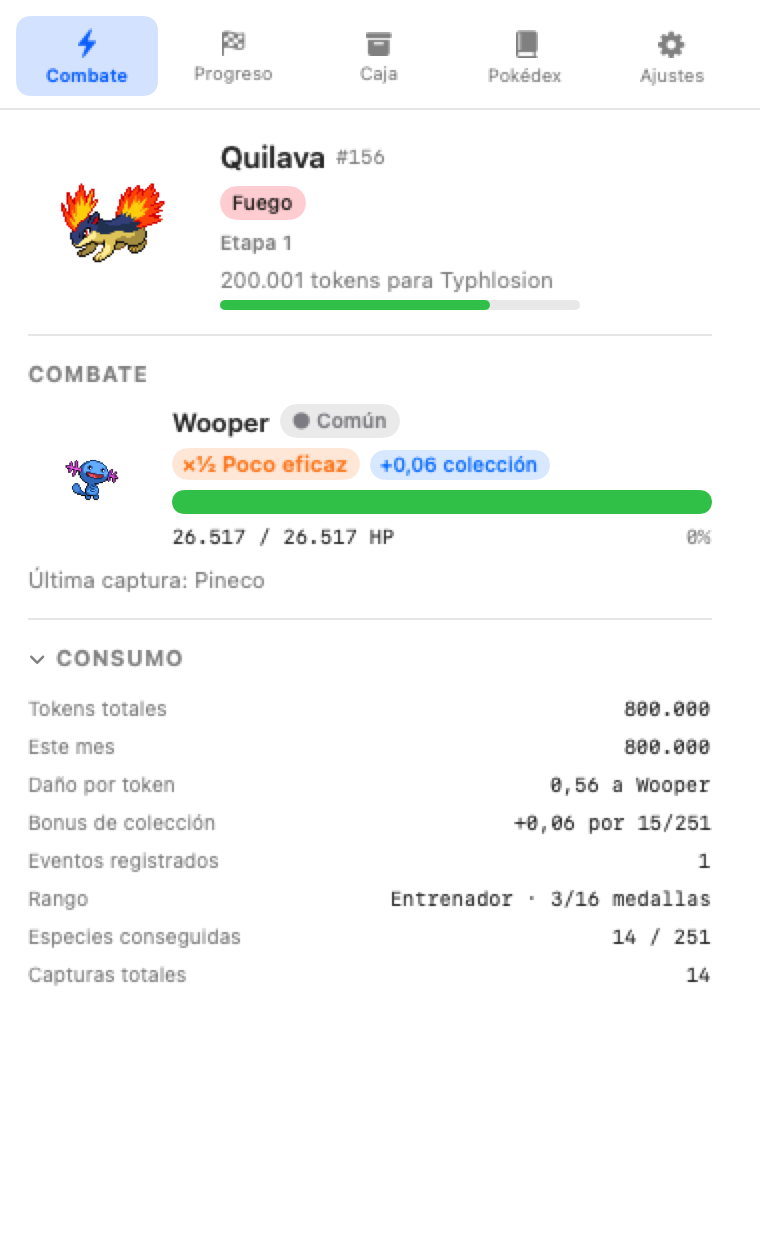
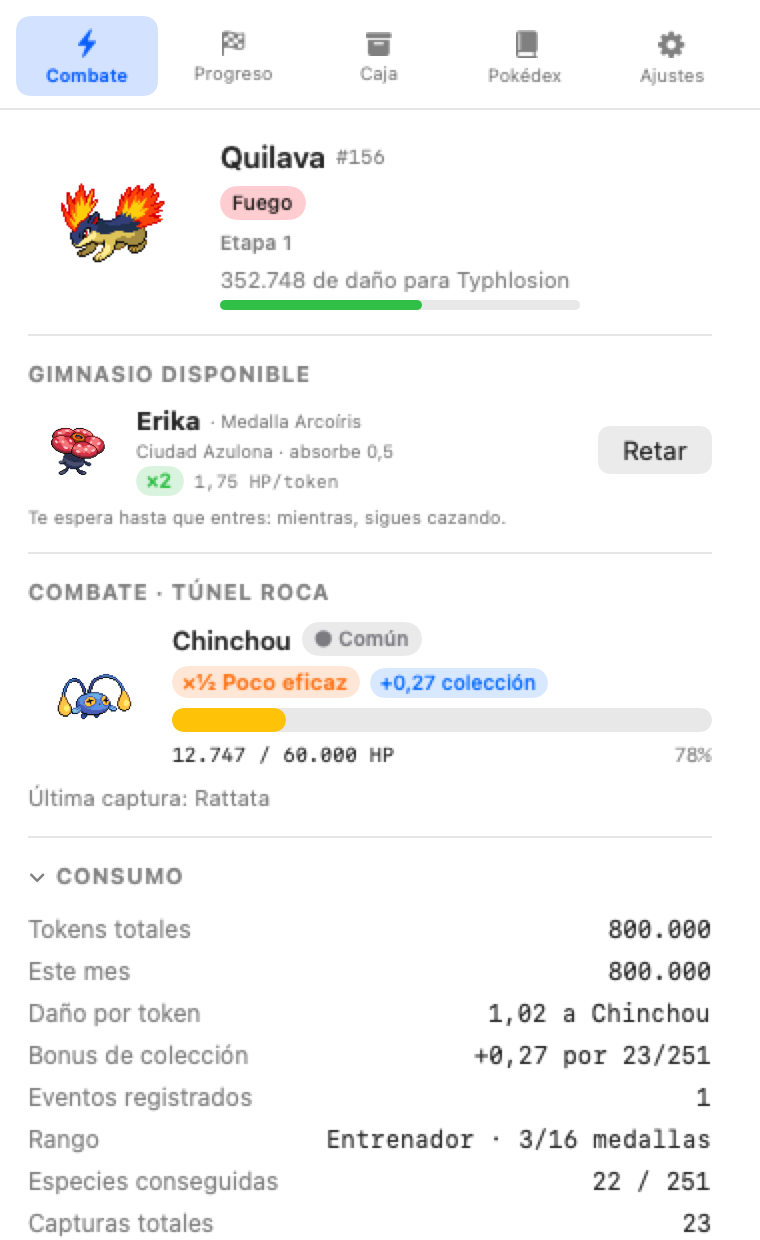
docs: auditar el README contra el código y arreglar el render de capturas
La documentación se quedó atrás en las últimas tandas. Lo que contradecía al
código:

- la tabla de tiers daba 60/28/10/2 % y un rango de HP por tier, cuando la
  rareza pasó a ser probabilidad (45/33/22) y la vida la pone la zona; además
  seguía pidiendo "> 200.000 tokens" para los raros, que es el gate por tokens
  que las medallas sustituyeron hace mucho;
- la evolución seguía contando "tokens ganados" en vez del daño hecho;
- los legendarios "repartían su 2 %", cuando su peso es cero;
- los hitos pedían "medallas extra (Ho-Oh, 10)", que no es ninguno de los que
  hay: son los tres pájaros con 8 y Celebi con 16;
- el variocolor seguía descrito como un hueco aparte de la caja;
- quedaba una frase partida por la mitad en el bullet de los GIF.

`Rarity.hpRange` ya no lo usaba nadie desde que la vida sale de la zona: los
jefes tienen la suya en sus JSON. Fuera.

El render de capturas llevaba dos semanas escribiendo cuatro PNG menos sin
decirlo: `debugWinLeague("johto")` era el id de la liga que abría la región 2 y
al invertir el orden pasó a ser la final, así que la región 2 quedaba cerrada,
`nextGym` devolvía nil y el bloque de gimnasio se saltaba entero. Ahora la liga
se busca por su recompensa, el bloque va antes del barco —que es cuando el
gimnasio siguiente es alcanzable— y se restaura la pestaña al salir.

Capturas regeneradas, y las seis que el render producía sin que nadie las
guardara entran al repo: las de zonas, ramas y barco se enseñan en su sección.

diff --git a/Sources/PokeTokenBar/UIRender.swift b/Sources/PokeTokenBar/UIRender.swift
@@ -93,9 +93,44 @@ enum UIRender {
         store.selectedTab = "progreso"
         write("popover-progreso", hosted(RootView(), size: popoverSize))
 
-        // El barco a Kanto: el Alto Mando ganado y la Pokédex a medias.
+        // --- Gimnasio: abrirlo de verdad, no simularlo
+        store.debugSetGymCounters(tokens: GameRules.gymTokenInterval, captures: 0)
+        store.debugSetEncounter(WildEncounter(speciesID: 19, isShiny: false, rarity: .common, maxHP: 10))
+        store.ingest(UsageEvent(id: "render-gym", inputTokens: 10, outputTokens: 0))
+        if let waiting = store.availableGym {
+            warm([waiting.signatureSpeciesID])
+            store.selectedTab = "combate"
+            write("popover-gimnasio-disponible", hosted(RootView(), size: popoverSize))
+            store.startGym(waiting.id)
+        }
+        if let gym = store.activeGym {
+            warm([gym.gym.signatureSpeciesID])
+            write("hud-gimnasio", hosted(HUDView(), size: compactHUD))
+            store.selectedTab = "combate"
+            write("popover-gimnasio", hosted(RootView(), size: popoverSize))
+            // Y ganarlo, para la celebración de medalla.
+            store.ingest(UsageEvent(id: "render-medalla", inputTokens: gym.battle.maxHP * 6, outputTokens: 0))
+            if store.lastMedal != nil {
+                write("hud-medalla", hosted(HUDView(), size: NSSize(width: 300, height: 120)))
+                write("popover-medalla", hosted(RootView(), size: popoverSize))
+            }
+        }
+        // La celebración dura 12 s y taparía todo lo que viene después, y el
+        // gimnasio deja la pestaña en Combate: las dos siguientes son de
+        // Progreso.
+        store.dismissMedalCelebration()
+        store.selectedTab = "progreso"
+
+        // El barco a la región 2: su Alto Mando ganado y la Pokédex a medias.
+        // La liga se busca por su recompensa y no por su id: cuando se invirtió
+        // el orden de juego, el id escrito a mano pasó a ser el de la liga
+        // final y este bloque dejó de enseñar el barco (y de paso se llevó por
+        // delante las cuatro capturas de gimnasio, que dependen de que la
+        // región 2 siga cerrada).
         store.debugDefeatGyms(upTo: 8)
-        store.debugWinLeague("johto")
+        if let ferry = store.leagueCatalog.all.first(where: { $0.reward.opensRegion != nil }) {
+            store.debugWinLeague(ferry.id)
+        }
         store.toggleSection("Rango")
         store.toggleSection("Legendarios")
         store.toggleSection("Zonas")
@@ -159,29 +194,6 @@ enum UIRender {
         store.selectedTab = "pokedex"
         write("popover-pokedex", hosted(RootView(), size: popoverSize))
         store.selectedTab = "combate"
-
-        // --- Gimnasio: abrirlo de verdad, no simularlo
-        store.debugSetGymCounters(tokens: GameRules.gymTokenInterval, captures: 0)
-        store.debugSetEncounter(WildEncounter(speciesID: 19, isShiny: false, rarity: .common, maxHP: 10))
-        store.ingest(UsageEvent(id: "render-gym", inputTokens: 10, outputTokens: 0))
-        if let waiting = store.availableGym {
-            warm([waiting.signatureSpeciesID])
-            store.selectedTab = "combate"
-            write("popover-gimnasio-disponible", hosted(RootView(), size: popoverSize))
-            store.startGym(waiting.id)
-        }
-        if let gym = store.activeGym {
-            warm([gym.gym.signatureSpeciesID])
-            write("hud-gimnasio", hosted(HUDView(), size: compactHUD))
-            store.selectedTab = "combate"
-            write("popover-gimnasio", hosted(RootView(), size: popoverSize))
-            // Y ganarlo, para la celebración de medalla.
-            store.ingest(UsageEvent(id: "render-medalla", inputTokens: gym.battle.maxHP * 6, outputTokens: 0))
-            if store.lastMedal != nil {
-                write("hud-medalla", hosted(HUDView(), size: NSSize(width: 300, height: 120)))
-                write("popover-medalla", hosted(RootView(), size: popoverSize))
-            }
-        }
 
         for name in written.sorted() { print(name) }
         return written.isEmpty ? 1 : 0

diff --git a/Sources/PokeTokenBarCore/Model/Rarity.swift b/Sources/PokeTokenBarCore/Model/Rarity.swift
@@ -21,17 +21,6 @@ public enum Rarity: String, Codable, CaseIterable, Sendable {
         }
     }
 
-    /// HP de los jefes de este tier. Los salvajes ya no lo usan: su vida sale
-    /// de la profundidad de la zona.
-    public var hpRange: ClosedRange<Int> {
-        switch self {
-        case .common: return 10_000...50_000
-        case .uncommon: return 75_000...200_000
-        case .rare: return 250_000...600_000
-        case .legendary: return 1_500_000...4_000_000
-        }
-    }
-
     /// Si aparece en libertad. Los legendarios no: son hitos con sitio y
     /// requisito, y dejarlos también en el sorteo los abarataría.
     public var spawnsInTheWild: Bool { self != .legendary }

diff --git a/README.md b/README.md
@@ -124,18 +124,26 @@ rival de turno, no con quién empezaste) y ofrecía los tres de Johto para empez
 en Kanto. Nunca duplica una línea: si ya tienes ese Pokémon, no te dan otro.
 
 
-| Tier | Prob. | HP | Requiere | Ejemplos |
-|---|---|---|---|---|
-| Común | 60 % | 10.000 – 50.000 | — | Rattata, Sentret |
-| Poco común | 28 % | 75.000 – 200.000 | — | Gastly, Scyther |
-| Raro | 10 % | 250.000 – 600.000 | > 200.000 tokens | Dratini, Larvitar, iniciales |
-| Legendario | 2 % | 1.500.000 – 4.000.000 | > 2.000.000 tokens | Mewtwo, Lugia |
+| Tier | Peso dentro de su zona | Requiere | Ejemplos |
+|---|---|---|---|
+| Común | 45 % | — | Rattata, Sentret |
+| Poco común | 33 % | — | Gastly, Scyther |
+| Raro | 22 % | 2 medallas (rango Entrenador) | Dratini, Larvitar, iniciales |
+| Legendario | — | no aparece en libertad | Mewtwo, Lugia |
 
+- **La rareza es probabilidad, no vida.** Cuánto aguanta un salvaje lo dice la
+  zona en la que estás (§13), no su tier: dentro de una zona, un raro sale menos
+  pero cuesta lo mismo que un común.
+- Un tier que la zona no tiene reparte su peso entre los que sí, en proporción:
+  en una zona sin raros, el 22 % se va a comunes y poco comunes.
 - Variocolor (shiny): 1 % en cualquier aparición, y se conserva al capturar.
-- Un tier bloqueado no "reintenta": su peso se reparte entre los disponibles.
-### Evolución: los tokens dan derecho, el combate decide la forma
+### Evolución: el daño da derecho, el combate decide la forma
 
-Cada Pokémon evoluciona con **sus** tokens (200.000 y 1.000.000 ganados
+<p align="center">
+  <img src="docs/screenshots/popover-ramas.png" width="260" alt="Ficha de un Eevee con sus cinco ramas y la condición de cada una">
+</p>
+
+Cada Pokémon evoluciona con **su** daño (200.001 y 1.000.001 de HP quitados
 estando equipado), y la evolución es un **hecho que se registra en el
 ejemplar**, no algo que se recalcule a partir de los tokens. Eso importa para
 las cinco líneas que bifurcan: antes la rama la fijaba una semilla desde la
@@ -547,6 +555,10 @@ de dejar el avance en silencio.
 
 ### El barco entre regiones
 
+<p align="center">
+  <img src="docs/screenshots/popover-barco.png" width="260" alt="El barco: Alto Mando ganado y el requisito de Pokédex a medias">
+</p>
+
 El billete tiene **dos mitades**:
 
 1. ganar el **Alto Mando de Kanto**, y
@@ -555,7 +567,8 @@ El billete tiene **dos mitades**:
 El requisito de Pokédex es lo que hace que la región 1 haya que jugarla y no
 solo atravesarla: sin él se ganaba el Alto Mando con la mitad de la región sin
 ver. Son las **66 que se encuentran antes de Johto** más criar cuatro, unos
-800.000 tokens, y con la zona enfocada es trabajo dirigido y no lotería.
+800.000 de daño, y como siempre estás en una zona concreta es trabajo dirigido
+y no lotería.
 
 Es el equivalente al **Dock Pass** de PokéClicker, que allí se compra con
 moneda: aquí no hay monedas, así que el peaje es la Pokédex.
@@ -609,7 +622,7 @@ seguidas, y es ese número el que mueve todo lo demás.
 | 0 | Kanto | rutas del sur; tier común y poco común |
 | 2 | Kanto | tier **raro** (rango Entrenador) |
 | 5 | Kanto | rango Veterano y la Central Eléctrica |
-| 8 | Kanto | tier **legendario** (rango As), los tres pájaros y el Alto Mando |
+| 8 | Kanto | rango As, los tres pájaros y el Alto Mando |
 | 8 + liga | — | **se abre Johto**: sus zonas base y su primer gimnasio |
 | 10 a 16 | Johto | sus zonas por tramos (Ruinas Alfa, Monte Mortar, Senda Helada…) |
 | 16 | Johto | Torre Quemada, Torre Campana e Islas Remolino: los legendarios de Johto |
@@ -624,12 +637,14 @@ estaba la confusión.
 ## 12. Hitos legendarios
 
 Los 11 legendarios **no aparecen en el sorteo**: tienen sitio y requisito, y se
-retan cuando quieras desde la sección *Legendarios*. Su 2 % de aparición se
-reparte entre los tiers que sí salen, así que el sorteo sigue sumando 1.
+retan cuando quieras desde la sección *Legendarios*. Su peso de aparición es
+**cero**, y hay un test que comprueba que ningún rango puede sortear ese tier en
+ninguna zona.
 
 El sitio de cada hito **es una zona del catálogo de zonas**, así que su requisito
 base es "esa zona está abierta" y no hay reglas de desbloqueo duplicadas. Encima
-puede pedir medallas extra (Ho-Oh, 10) o Pokédex (Mew, 200 especies).
+puede pedir medallas extra (los tres pájaros, 8; Celebi, 16) o Pokédex (Mew,
+200 especies).
 
 | Legendario | Sitio | Requisito |
 |---|---|---|
@@ -684,6 +699,10 @@ más difícil entre "raro" y el suyo; con la zona como bombo único esa red no
 tiene dónde engancharse, y no se pierde nada porque no pescaba a nadie.
 
 ### La zona es la unidad de dificultad
+
+<p align="center">
+  <img src="docs/screenshots/popover-zonas.png" width="300" alt="Lista de zonas con dónde estás y el HP de cada una">
+</p>
 
 **Siempre estás en una zona**, y el rival sale de su bombo. No hay modo "todo
 mezclado": era lo que hacía que el juego se volviera **más fácil** según
@@ -926,7 +945,7 @@ quedan porque explican **por qué** cada regla es como es:
 | `docs/spec-liga-zonas-hitos.md` | fases 1-4 implementadas; 5 y 6 pendientes |
 | `docs/spec-ramas-y-cola.md` | ramas por condición **implementadas**; el resto (regiones, misiones, logros) sigue en borrador |
 | `docs/spec-salto-a-kanto.md` | **borrador para decidir**: el requisito para abrir Kanto, si Kanto pesa más, y el momento del salto. Su decisión K4 (no escalar el HP) la sustituye la spec de abajo |
-| `docs/spec-zona-como-unidad.md` | **borrador para decidir**: el HP sale de la zona y no del tier, como en PokéClicker, para que el juego deje de volverse un 36 % más fácil según avanzas |
+| `docs/spec-zona-como-unidad.md` | **implementada** con la curva B (HP ×6 y techo del bonus a +3) y la rareza ponderada 45/33/22 |
 
 ## 21. Límites conocidos del MVP
 
@@ -944,17 +963,20 @@ quedan porque explican **por qué** cada regla es como es:
   edita el `state.json` a mano.
 - Los GIF de las fichas se dibujan a **tamaño nativo** y se escalan por
   transformación de capa: si los escalara `NSImageView` al dibujar, el suavizado
-  lo haría el dibujado y «pixel nítido» no tendría ningún efecto. (~80 KB cada uno, frente a ~2 KB del PNG), así que la
-  caché crece con el uso; las rejillas siguen con el estático porque animar 251
-  celdas a la vez no compensa. Si una especie no tuviera animado, cae al
-  estático sola. Sin red, la app
-  funciona y muestra el número de Pokédex como placeholder.
+  lo haría el dibujado y «pixel nítido» no tendría ningún efecto. Pesan unos
+  80 KB cada uno frente a los ~2 KB del PNG, así que la caché crece con el uso;
+  las rejillas siguen con el estático porque animar 251 celdas a la vez no
+  compensa. Si una especie no tuviera animado, cae al estático sola. Sin red la
+  app funciona y muestra el número de Pokédex como placeholder.
 - No hay notificaciones del sistema en las capturas (evita pedir permisos): la
   barra muestra "¡X capturado!" durante 6 segundos.
 - **No se repiten líneas evolutivas.** Un Squirtle salvaje sigue apareciendo
-  aunque tengas un Wartortle, pero al vencerlo no se queda: cuenta como
-  victoria (`familyDefeats`) y nada más. La excepción es el variocolor, que sí
-  entra aunque tengas la línea en normal, porque es otra cosa a la vista.
+  aunque tengas un Wartortle, pero al vencerlo no se queda: cuenta como victoria
+  (`familyDefeats`) y nada más. Dos excepciones: el **variocolor**, que no ocupa
+  hueco pero le desbloquea la paleta al que tienes (y al revés), y las líneas
+  que **bifurcan**, que aceptan un segundo ejemplar cuando los tuyos ya no
+  evolucionan y les falta una rama. La ficha del rival dice cuál de los tres
+  casos es antes de que gastes nada.
 - **Clic abre la ficha, doble clic envía a luchar.** Antes era al revés, con la
   ficha escondida en el clic derecho: mirar es lo que se hace todo el rato y
   cambiar de compañero cambia el daño por token, así que lo barato va en el

diff --git a/docs/spec-ramas-y-cola.md b/docs/spec-ramas-y-cola.md
@@ -1,6 +1,10 @@
 # Spec: ramas por condición, y qué viene después
 
-Estado: **borrador para decidir**. Nada de esto está implementado.
+Estado: **fase 1 implementada** (ramas por condición, sección 1), con dos
+vueltas posteriores: la rama se decide por el **último Pokémon vencido** y por
+el reloj, y si la que toca vive en una región cerrada pero solo queda **una**
+alcanzable, se coge esa en vez de esperar. Las fases 2 a 5 siguen en borrador.
+Las notificaciones de la sección 4 están **descartadas**.
 
 Cubre cuatro cosas en un solo documento porque comparten el mismo objetivo —que
 la Pokédex se pueda terminar y que el medio juego tenga qué hacer— y porque las
@@ -190,8 +194,8 @@ antes.
 
 ## Fases propuestas
 
-1. **Ramas por condición** (sección 1). Es lo que desbloquea el 100 % de la
-   Pokédex actual, y lo único de aquí que arregla algo roto.
+1. ~~**Ramas por condición** (sección 1)~~ — **hecho**. Es lo que desbloquea el
+   100 % de la Pokédex actual, y lo único de aquí que arreglaba algo roto.
 2. **Misiones** (3.A), que es lo que sostiene el medio juego.
 3. **Logros** (3.B), encima de las misiones.
 4. **Hoenn** (sección 2), cuando lo anterior esté jugado.

diff --git a/docs/spec-salto-a-kanto.md b/docs/spec-salto-a-kanto.md
@@ -143,6 +143,11 @@ bloquea contenido, solo el paso de región — que es la forma del Dock Pass.
 
 **K4 — ¿Escalamos el HP de los salvajes por región?** Propuesta: **no** (ver B).
 
+**Superada por [spec-zona-como-unidad](spec-zona-como-unidad.md)**: no se escala
+por región —PokéClicker tampoco lo hace— sino por **profundidad de zona**, que
+es su curva de verdad. El razonamiento de B seguía siendo correcto para la
+pregunta que se hacía; la pregunta era la equivocada.
+
 **K5 — ¿Y las regiones siguientes?** Propuesta: el mismo patrón, con el umbral
 en proporción a lo alcanzable de cada región. Así Hoenn no necesita inventar
 nada: liga + registro de la región anterior.
